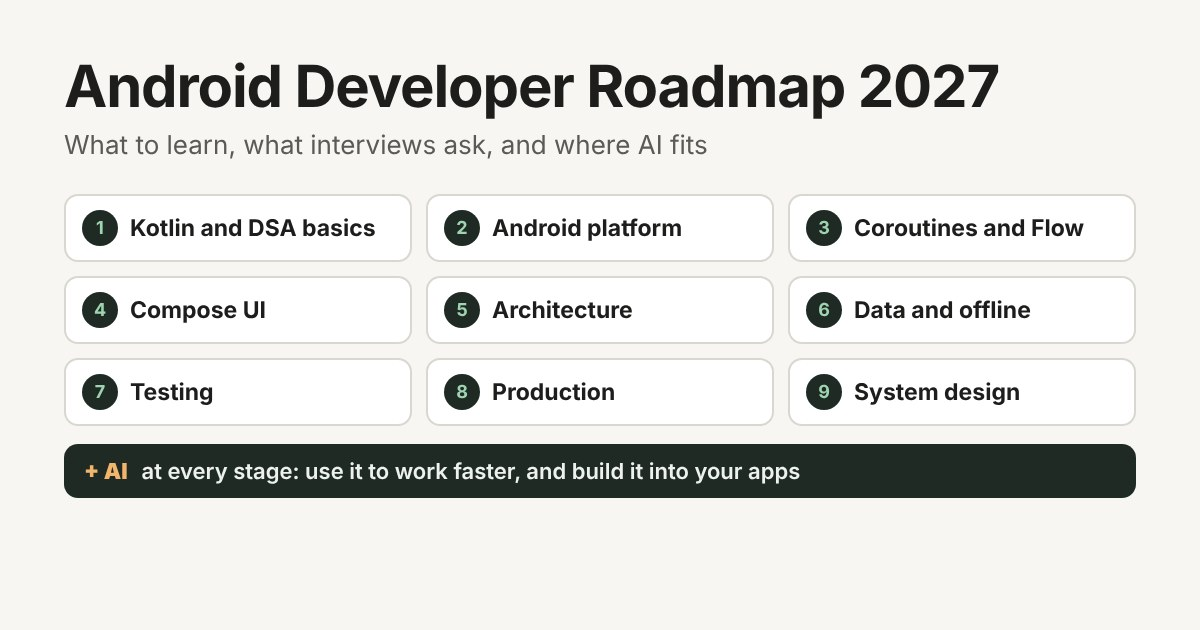
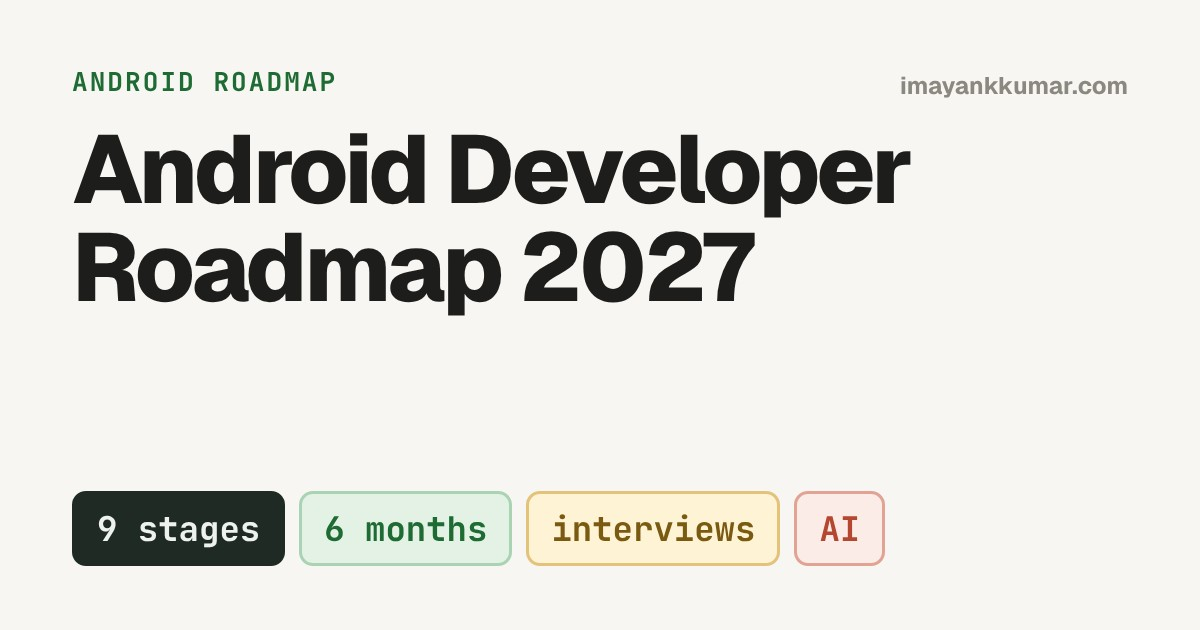
Blog: readable title-card covers for all posts
The blog list showed each post's full diagram shrunk to 280px, so its
text could not be read. Each post now has its own title card (series
label, short title, topic chips) in the diagram colors. The same card
is the post's link preview image (1200x630). Diagrams inside the posts
are unchanged.

Changed region(s): [[0.0308, 0.2111, 0.9558, 0.9048], [0.0308, 0.0905, 0.9558, 0.181]]

diff --git a/src/content/blog/ai-can-write-my-kotlin.md b/src/content/blog/ai-can-write-my-kotlin.md
@@ -9,9 +9,9 @@ featuredIn:
   - name: "Android Weekly #750"
     url: "https://androidweekly.net/issues/issue-750"
 ogImage: "/og/ai-can-write-my-kotlin.jpg"
-ogImageAlt: "Diagram: tests pass in the repository, but Android bugs live on the device at runtime."
-cover: "../../assets/blog/verification-gap.png"
-coverAlt: "Diagram: tests pass in the repository, but Android bugs live on the device at runtime."
+ogImageAlt: "Title card: AI can write my Kotlin. Who debugs it at 2 AM? Tags: tests pass, process death, R8, OEM limits."
+cover: "../../assets/blog/covers/ai-can-write-my-kotlin.png"
+coverAlt: "Title card: AI can write my Kotlin. Who debugs it at 2 AM? Tags: tests pass, process death, R8, OEM limits."
 ---
 
 It's 2:07 AM, and Crashlytics has opinions. The crash is in a ViewModel that `git blame` says you wrote. You didn't. An agent did, and its pull request said "all tests pass." They do. The agent updated the expected values to match its new behaviour.

diff --git a/src/content/blog/kotlin-any-unit-nothing.md b/src/content/blog/kotlin-any-unit-nothing.md
@@ -6,9 +6,9 @@ tags: ["kotlin", "android", "type-system", "basics"]
 ogImage: "/og/kotlin-any-unit-nothing.jpg"
 linkedinUrl: "https://www.linkedin.com/feed/update/urn:li:activity:7525548676300136448/"
 xUrl: "https://x.com/bymayankkumar/status/2119781795902419150"
-ogImageAlt: "Diagram: Kotlin's type ladder. Any? at the top, Any below it, your own types in the middle, and Nothing at the bottom."
-cover: "../../assets/blog/kotlin-any-unit-nothing.png"
-coverAlt: "Diagram: Kotlin's type ladder. Any? at the top, Any below it, your own types in the middle, and Nothing at the bottom."
+ogImageAlt: "Title card: Any, Unit and Nothing. Tags: Any?, Any, Unit and Nothing."
+cover: "../../assets/blog/covers/kotlin-any-unit-nothing.png"
+coverAlt: "Title card: Any, Unit and Nothing. Tags: Any?, Any, Unit and Nothing."
 roadmap:
   topic: any-unit-nothing
 ---

diff --git a/src/content/blog/android-developer-roadmap-2027.md b/src/content/blog/android-developer-roadmap-2027.md
@@ -10,9 +10,9 @@ featuredIn:
     url: "https://androidweekly.net/issues/issue-751"
 tags: ["android", "kotlin", "roadmap", "interviews", "ai"]
 ogImage: "/og/android-developer-roadmap-2027.jpg"
-ogImageAlt: "Android Developer Roadmap 2027: nine stages in learning order, plus AI at every stage."
-cover: "../../assets/blog/android-roadmap-2027.png"
-coverAlt: "Android Developer Roadmap 2027 diagram: nine stages in three rows, with two AI tracks under them."
+ogImageAlt: "Title card: Android Developer Roadmap 2027. Tags: 9 stages, 6 months, interviews, AI."
+cover: "../../assets/blog/covers/android-developer-roadmap-2027.png"
+coverAlt: "Title card: Android Developer Roadmap 2027. Tags: 9 stages, 6 months, interviews, AI."
 ---
 
 If you are an Android developer right now, you are probably asking three questions:

diff --git a/src/content/blog/kotlin-null-safety.md b/src/content/blog/kotlin-null-safety.md
@@ -7,9 +7,9 @@ linkedinUrl: "https://www.linkedin.com/feed/update/urn:li:activity:7523693169323
 xUrl: "https://x.com/bymayankkumar/status/2117709559993380887"
 tags: ["kotlin", "android", "null-safety", "basics"]
 ogImage: "/og/kotlin-null-safety.jpg"
-ogImageAlt: "Diagram: five ways to use a nullable value in Kotlin. Four are safe; only !! can still crash."
-cover: "../../assets/blog/kotlin-null-safety.png"
-coverAlt: "Diagram: five ways to use a nullable value in Kotlin. Four are safe; only !! can still crash."
+ogImageAlt: "Title card: Null safety in Kotlin. Tags: String?, ?., ?: and !!."
+cover: "../../assets/blog/covers/kotlin-null-safety.png"
+coverAlt: "Title card: Null safety in Kotlin. Tags: String?, ?., ?: and !!."
 roadmap:
   topic: null-safety
 ---
